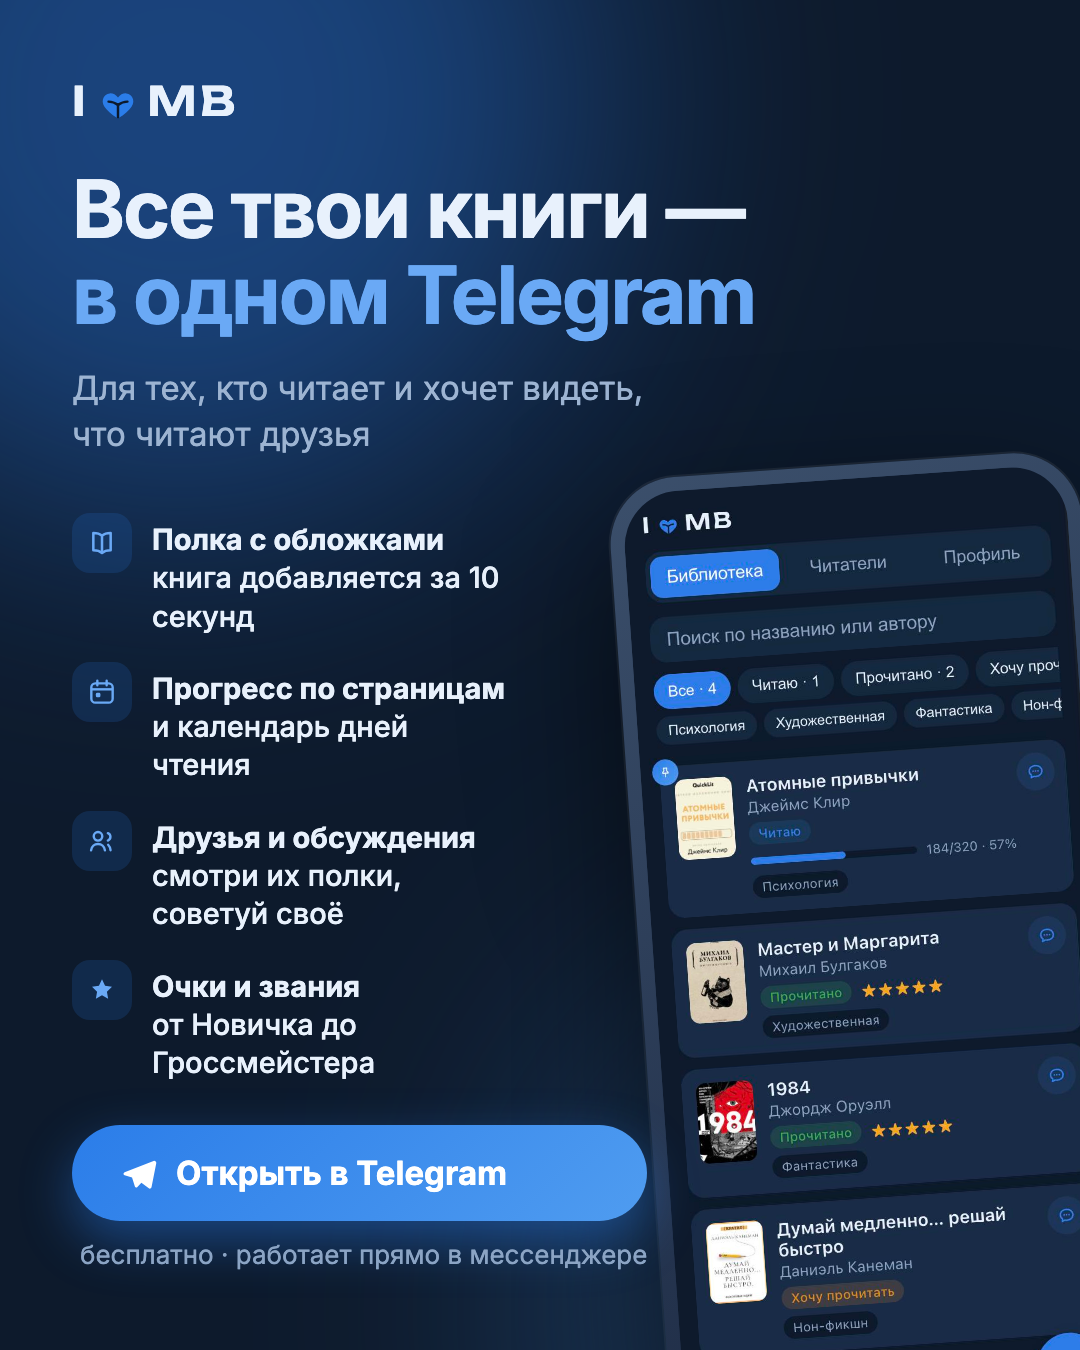
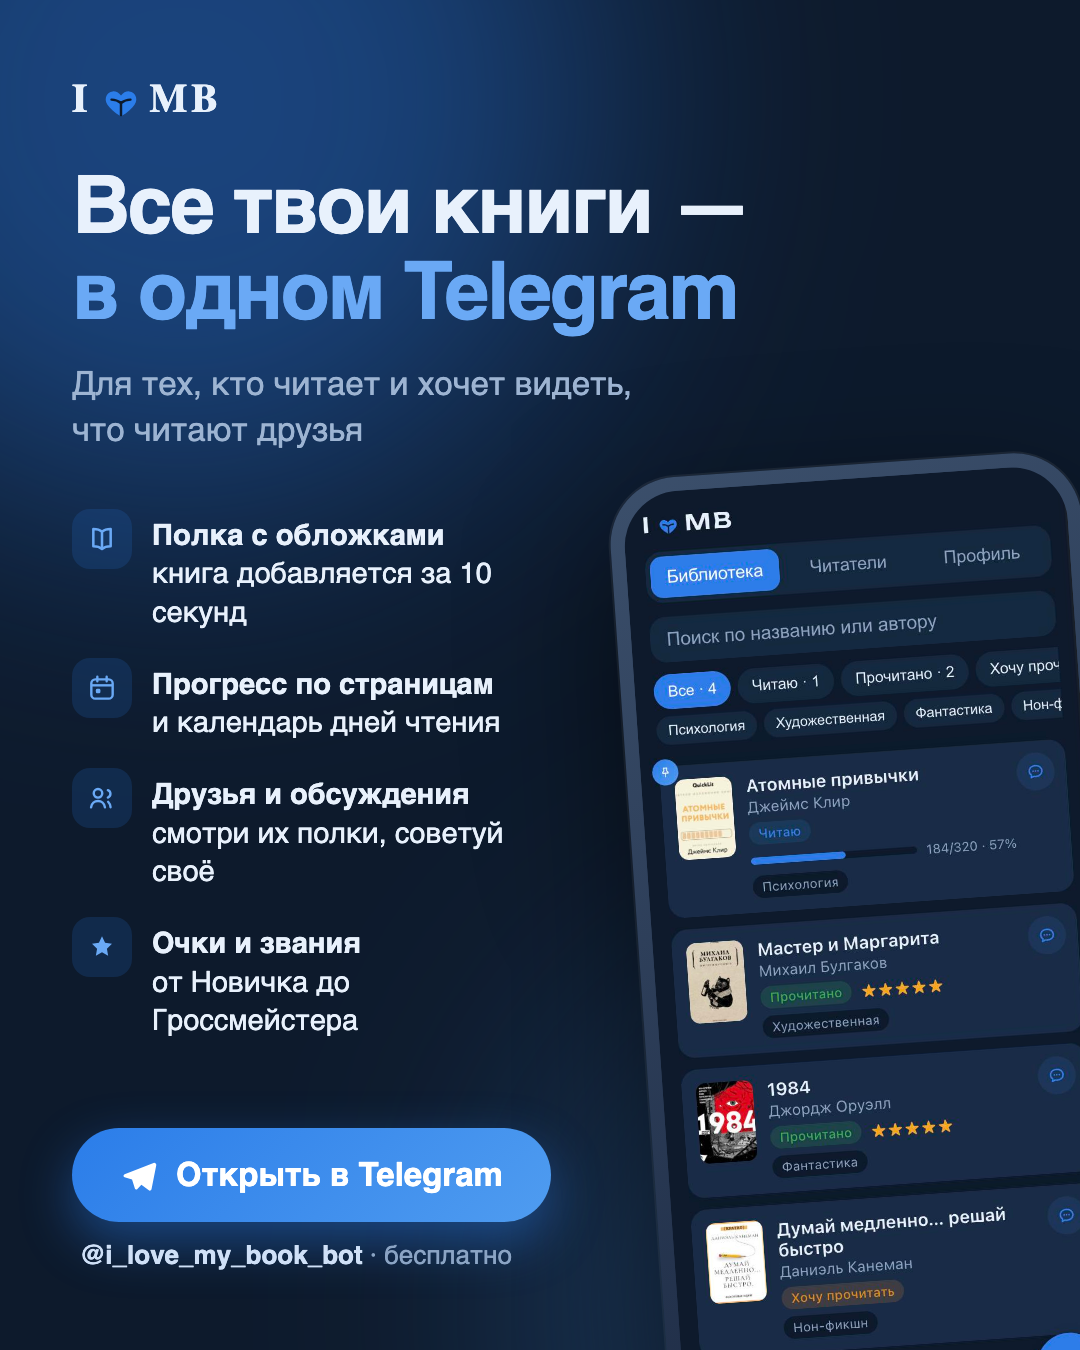
Креатив: юзернейм бота в макете, выключка CTA

diff --git a/promo/promo.html b/promo/promo.html
@@ -61,7 +61,7 @@
 
   .cta {
     position: absolute; left: 36px; bottom: 40px;
-    display: flex; flex-direction: column; gap: 9px; z-index: 2;
+    display: flex; flex-direction: column; align-items: flex-start; gap: 9px; z-index: 2;
   }
   .cta-btn {
     display: inline-flex; align-items: center; gap: 9px;
@@ -72,6 +72,7 @@
   }
   .cta-btn svg { width: 19px; height: 19px; }
   .cta-note { font-size: 13px; color: #8ba4c4; padding-left: 4px; }
+  .cta-note b { color: #cfe0f7; font-weight: 700; }
 </style>
 </head>
 <body>
@@ -130,7 +131,7 @@
         <svg viewBox="0 0 24 24" fill="currentColor"><path d="M21.6 4.3 2.9 11.5c-.9.4-.9 1.6 0 1.9l4.7 1.5 1.8 5.6c.2.7 1.1.9 1.6.3l2.5-2.6 4.7 3.5c.6.4 1.5.1 1.7-.7l3-15.1c.2-.9-.7-1.6-1.3-1.6Z"/></svg>
         Открыть в Telegram
       </div>
-      <div class="cta-note">бесплатно · работает прямо в мессенджере</div>
+      <div class="cta-note"><b>@i_love_my_book_bot</b> · бесплатно</div>
     </div>
   </div>
 </body>
